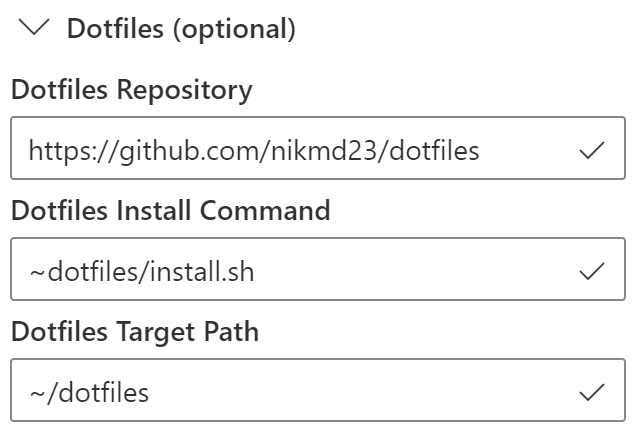
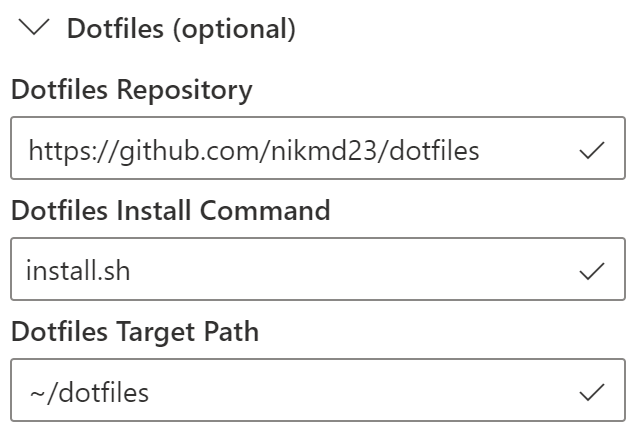
update dotfiles

Changed region(s): [[0.0298, 0.5991, 0.3871, 0.659]]

diff --git a/vscodespaces/reference/personalizing.md b/vscodespaces/reference/personalizing.md
@@ -7,7 +7,7 @@ ms.topic: overview
 ms.date: 04/29/2020
 ---
 
-# Personalize Visual Studio Online with dotfiles
+# Personalize Visual Studio Codespaces with dotfiles
 
 Visual Studio Codespaces's [environments](../overview/what-is-vsonline.md#environments) are fully personalizable on a per user basis. This is accomplished by referencing a "dotfiles repo" at environment creation time.
 
@@ -27,16 +27,17 @@ Press `F1` and select the **Preferences: Open Setting (UI)** command in the [com
 
 ## Configure a dotfile repo during environment creation
 
-You can also configure dotfiles using the [Visual Studio Online portal](https://online.visualstudio.com). Press the **Create environment** button and expand the **Dotfiles (optional)** settings.
+You can also configure dotfiles using the [Visual Studio Codespaces portal](https://online.visualstudio.com). Press the **Create environment** button and expand the **Dotfiles (optional)** settings.
 
-[![Visual Studio Online Dotfiles Settings](../images/personalizing-dotfiles-vso-cropped.png)](../images/personalizing-dotfiles-vso.png#lightbox "Visual Studio Online dotfiles settings")
+[![Visual Studio Codespaces Dotfiles Settings](../images/personalizing-dotfiles-vso-cropped.png)](../images/personalizing-dotfiles-vso.png#lightbox "Visual Studio Codespaces dotfiles settings")
 
 In both experiences, there are three options that can be configured:
 
 1. **Dotfiles Repository**: The URL of the Git repository containing your dotfiles. (*Required to personalize an environment, optional otherwise*)
-2. **Dotfiles Target Path**: The path where the dotfiles repo will be cloned. Defaults to `~/dotfiles`. (*Optional*)
+2. **Dotfiles Target Path**: The path where the dotfiles repo will be cloned. Defaults to `~/dotfiles` on Linux, `C:\dotfiles` on Windows. (*Optional*)
 
-3. **Dotfiles Install Command**: The command to run after cloning the dotfiles repository. By default, Codespaces scans the dotfiles repository and runs one of the following files:
+3. **Dotfiles Install Command**: The command to run after cloning the dotfiles repository. The install command should be relative to the repository root folder.
+By default, Codespaces scans the dotfiles repository and runs one of the following files. On a Linux-based Codespace:
     - `install.sh`
     - `install`
     - `bootstrap.sh`
@@ -44,7 +45,20 @@ In both experiences, there are three options that can be configured:
     - `setup.sh`
     - `setup`
 
-If none of these files are found, any files and folders starting with `.` are symlinked to the home (`~` or `$HOME` on Linux) directory.
+On a Windows-based Codespace:
+    - `bootstrap.ps1`
+    - `bootstrap.bat`
+
+If none of these files are found, any files and folders starting with `.` are symlinked to the home (`~` or `$HOME` on Linux, `%HOMEPATH%` on Windows) directory. In addition, a couple of files are picked up automatically by convention for sourcing.
+
+On a Linux-based Codespace:
+  - `sourcer.zsh` for zsh shell
+  - `sourcer.sh` for Bash and other shell
+
+On a Windows-based Codespace:
+    - `profile.ps1` for PowerShell
+
+Please note that this last part only happens when you did not specify any install command and none of the pre-configured install scripts listed above are found.
 
 Once the **Dotfiles Repository** is configured in VS Code, any environments created going forward will use the personalized settings.
 
